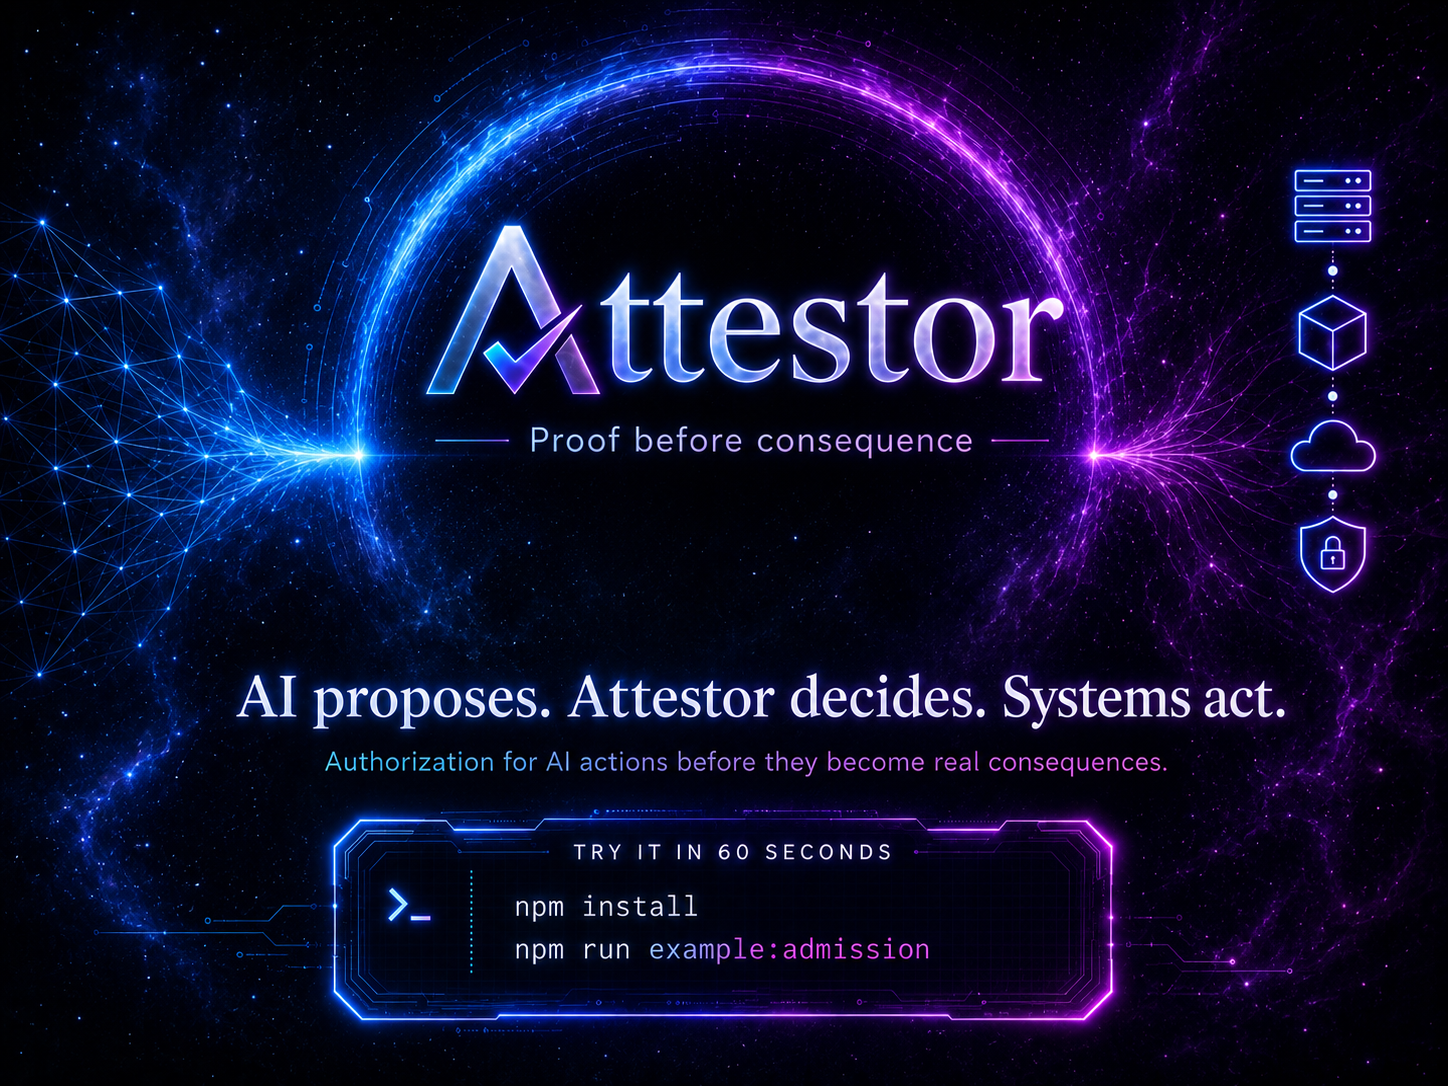
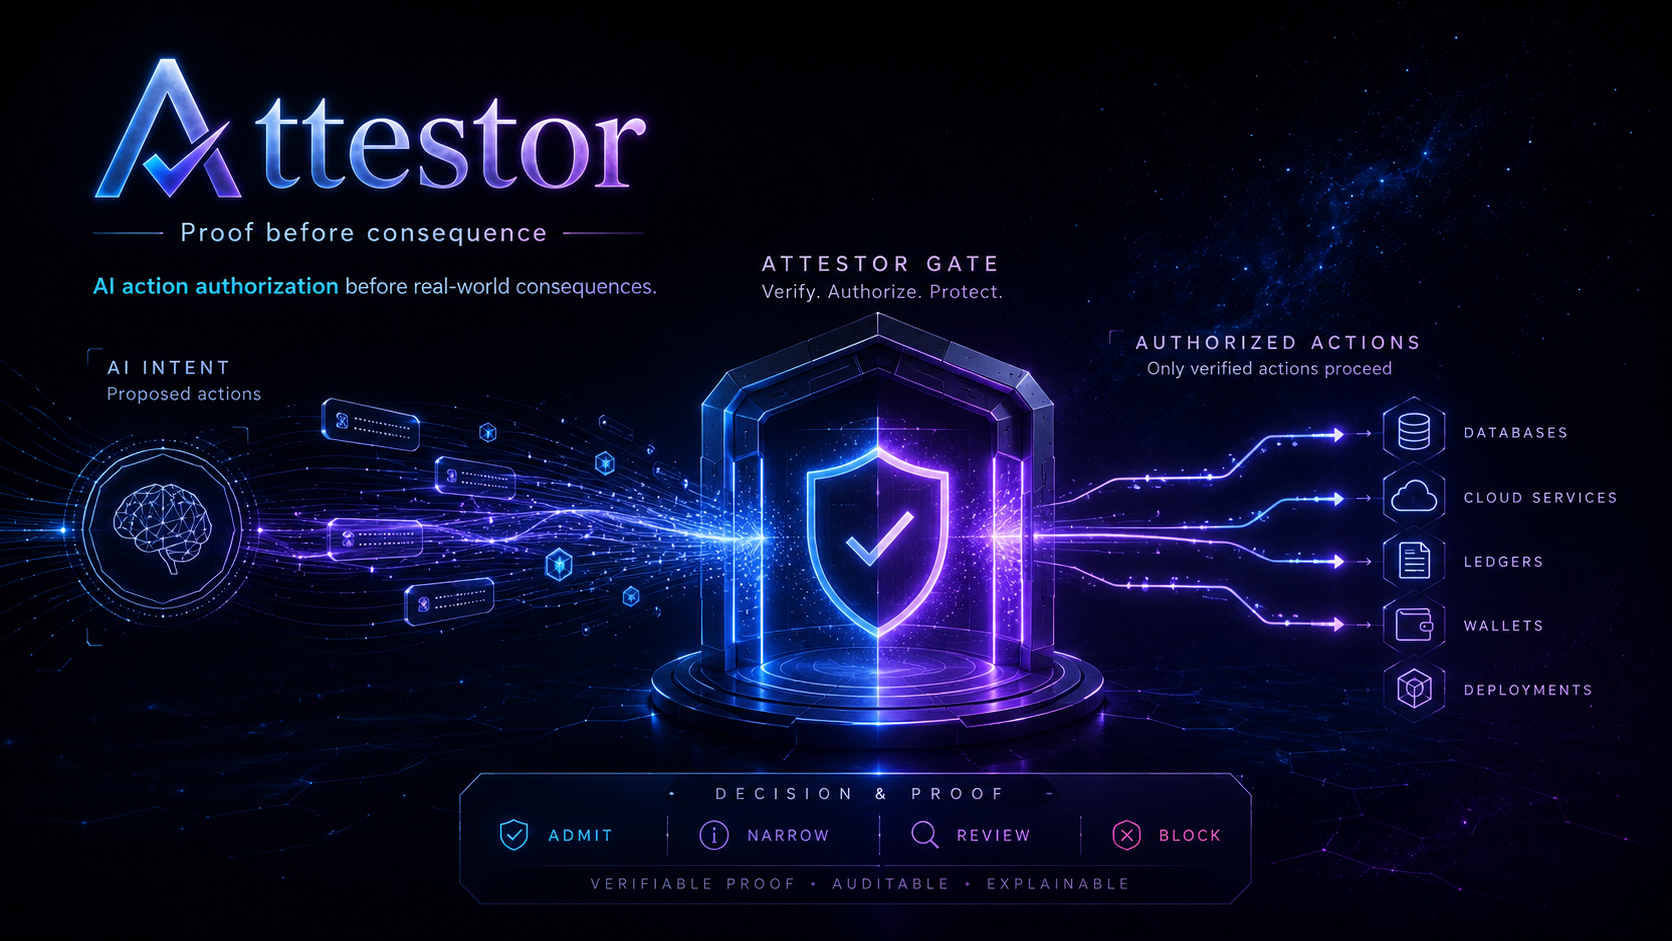
Add action surface onboarding example

diff --git a/tests/action-surface-onboarding-example.test.ts b/tests/action-surface-onboarding-example.test.ts
@@ -1,0 +1,137 @@
+import assert from 'node:assert/strict';
+import { existsSync, mkdtempSync, readFileSync, rmSync } from 'node:fs';
+import { tmpdir } from 'node:os';
+import { resolve } from 'node:path';
+import { spawnSync } from 'node:child_process';
+import { renderActionSurfaceOnboardingPacket } from '../scripts/render-action-surface-onboarding-packet.ts';
+
+let passed = 0;
+
+function ok(condition: unknown, message: string): void {
+  assert.ok(condition, message);
+  passed += 1;
+}
+
+function equal<T>(actual: T, expected: T, message: string): void {
+  assert.equal(actual, expected, message);
+  passed += 1;
+}
+
+function includes(value: string, expected: string, message: string): void {
+  assert.ok(
+    value.includes(expected),
+    `${message}\nExpected to include: ${expected}`,
+  );
+  passed += 1;
+}
+
+function excludes(value: string, unexpected: RegExp, message: string): void {
+  assert.doesNotMatch(value, unexpected, message);
+  passed += 1;
+}
+
+function readProjectFile(...segments: string[]): string {
+  return readFileSync(resolve(process.cwd(), ...segments), 'utf8');
+}
+
+function testExampleManifestRendersAReviewOnlyPacket(): void {
+  const tempDir = mkdtempSync(resolve(tmpdir(), 'attestor-action-surface-example-'));
+  const outputDir = resolve(tempDir, 'packet');
+
+  try {
+    const rendered = renderActionSurfaceOnboardingPacket({
+      generatedAt: '2026-05-12T18:00:00.000Z',
+      outputDir,
+      manifests: [{
+        path: 'examples/action-surface-onboarding/refund.openapi.json',
+        manifestKind: 'openapi',
+      }],
+      downstreamSystem: 'refund-service',
+      defaultDomain: 'money-movement',
+      credentialPosture: 'agent-held-static-secret',
+    });
+    const summary = readFileSync(rendered.artifacts.summaryPath, 'utf8');
+    const readme = readFileSync(rendered.artifacts.readmePath, 'utf8');
+
+    equal(rendered.packet.status, 'requires-review', 'Action surface example: packet requires review');
+    equal(rendered.packet.manifestCount, 1, 'Action surface example: one OpenAPI manifest is consumed');
+    equal(rendered.packet.declarationCount, 2, 'Action surface example: write operations become declarations');
+    equal(rendered.packet.surfacePlans.length, 2, 'Action surface example: two refund surfaces are planned');
+    equal(rendered.packet.approvalRequired, true, 'Action surface example: approval remains required');
+    equal(rendered.packet.autoEnforce, false, 'Action surface example: auto enforce is disabled');
+    equal(rendered.packet.rawPayloadStored, false, 'Action surface example: raw payload is not stored');
+    equal(rendered.packet.productionReady, false, 'Action surface example: production readiness is not claimed');
+    equal(rendered.packet.deploysInfrastructure, false, 'Action surface example: packet does not deploy infrastructure');
+    equal(rendered.packet.issuesCredentials, false, 'Action surface example: packet does not issue credentials');
+    equal(rendered.packet.activatesEnforcement, false, 'Action surface example: packet does not activate enforcement');
+    includes(summary, 'refund_service.issue_refund', 'Action surface example: issueRefund surface is normalized');
+    includes(summary, 'refund_service.approve_refund', 'Action surface example: approveRefund surface is normalized');
+    includes(summary, 'gateway-proxy-config', 'Action surface example: gateway draft is generated as review material');
+    includes(summary, 'policy-twin-backtest', 'Action surface example: Policy Twin draft is generated');
+    includes(readme, 'Safety boundary', 'Action surface example: README exposes safety boundary');
+    includes(readme, 'add-shadow-capture', 'Action surface example: README asks for shadow capture before enforcement');
+    excludes(summary, /sk_live|rk_live|whsec|private_key|secret=/iu, 'Action surface example: summary excludes secret-like strings');
+    excludes(readme, /production ready: true/iu, 'Action surface example: README does not overclaim production readiness');
+  } finally {
+    rmSync(tempDir, { recursive: true, force: true });
+  }
+}
+
+function testPackageScriptRunsWithOverrideOutputDir(): void {
+  const tempDir = mkdtempSync(resolve(tmpdir(), 'attestor-action-surface-example-cli-'));
+  const outputDir = resolve(tempDir, 'packet');
+
+  try {
+    const result = spawnSync(
+      'npm',
+      ['run', 'example:action-surface-onboarding', '--', `--output-dir=${outputDir}`],
+      {
+        cwd: process.cwd(),
+        encoding: 'utf8',
+        shell: process.platform === 'win32',
+      },
+    );
+    equal(result.status, 0, 'Action surface example: package script exits cleanly');
+    ok(existsSync(resolve(outputDir, 'summary.json')), 'Action surface example: package script writes summary');
+    ok(existsSync(resolve(outputDir, 'README.md')), 'Action surface example: package script writes README');
+    includes(result.stdout, 'summary.json', 'Action surface example: CLI prints rendered packet summary path');
+  } finally {
+    rmSync(tempDir, { recursive: true, force: true });
+  }
+}
+
+function testDocsExposeTheExampleWithoutOverclaiming(): void {
+  const pkg = JSON.parse(readProjectFile('package.json')) as {
+    readonly scripts: Record<string, string>;
+  };
+  const readme = readProjectFile('README.md');
+  const tryFirst = readProjectFile('docs', '01-overview', 'try-attestor-first.md');
+  const architectureDoc = readProjectFile('docs', '02-architecture', 'action-surface-onboarding-packet.md');
+  const exampleDoc = readProjectFile('examples', 'action-surface-onboarding', 'README.md');
+
+  equal(
+    pkg.scripts['example:action-surface-onboarding'],
+    'tsx scripts/render-action-surface-onboarding-packet.ts --openapi=examples/action-surface-onboarding/refund.openapi.json --default-domain=money-movement --downstream-system=refund-service --credential-posture=agent-held-static-secret',
+    'Action surface example: package script is stable',
+  );
+  equal(
+    pkg.scripts['test:action-surface-onboarding-example'],
+    'tsx tests/action-surface-onboarding-example.test.ts',
+    'Action surface example: package test is exposed',
+  );
+  includes(readme, 'npm run example:action-surface-onboarding', 'Action surface example: README includes command');
+  includes(tryFirst, 'npm run example:action-surface-onboarding', 'Action surface example: try-first doc includes command');
+  includes(architectureDoc, 'examples/action-surface-onboarding/refund.openapi.json', 'Action surface example: architecture doc names fixture');
+  includes(exampleDoc, 'review material only', 'Action surface example: example README keeps safety boundary');
+  excludes(readme, /action-surface onboarding example is production-ready/iu, 'Action surface example: README does not overclaim');
+}
+
+try {
+  testExampleManifestRendersAReviewOnlyPacket();
+  testPackageScriptRunsWithOverrideOutputDir();
+  testDocsExposeTheExampleWithoutOverclaiming();
+  console.log(`Action surface onboarding example tests: ${passed} passed, 0 failed`);
+} catch (error) {
+  console.error('Action surface onboarding example tests failed:', error);
+  process.exitCode = 1;
+}

diff --git a/tests/first-impression-path.test.ts b/tests/first-impression-path.test.ts
@@ -58,10 +58,12 @@ function testReadmeHasAFirstImpressionPath(): void {
   includes(readme, 'AI action authorization infrastructure', 'README: positions Attestor as infrastructure, not a generic tool');
   includes(readme, '## Try It In 60 Seconds', 'README: exposes a fast first run near the top');
   includes(readme, 'npm run example:admission', 'README: shows the first runnable command');
+  includes(readme, 'npm run example:action-surface-onboarding', 'README: shows the first onboarding packet command');
   includes(readme, 'one proposed consequence admitted with proof references', 'README: explains admitted proof refs');
   includes(readme, 'one proposed consequence blocked fail-closed', 'README: explains blocked fail-closed path');
   includes(readme, 'a customer-side gate that only proceeds when Attestor allows it', 'README: explains downstream gate behavior');
   includes(readme, 'a non-bypassable gateway demo where a payment adapter cannot dispatch without verifier allow', 'README: explains non-bypassable adapter behavior');
+  includes(readme, 'an action-surface onboarding packet rendered from a safe OpenAPI example without deploying anything', 'README: explains safe onboarding packet example');
   includes(readme, '## Decision Model', 'README: makes the decision vocabulary prominent');
   includes(readme, 'Admission responses also carry model-safe feedback.', 'README: exposes safe retry feedback near the decision model');
   includes(readme, 'sameRequestReplayAllowed', 'README: makes replay unsafe for model repair');
@@ -88,10 +90,12 @@ function testTryFirstDocKeepsTheBoundaryHonest(): void {
 
   includes(doc, 'npm run example:admission', 'Try-first doc: includes the runnable command');
   includes(doc, 'npm run example:non-bypassable-gateway', 'Try-first doc: includes the non-bypassable gateway command');
+  includes(doc, 'npm run example:action-surface-onboarding', 'Try-first doc: includes the action-surface onboarding example command');
   includes(doc, 'one is admitted', 'Try-first doc: explains admitted path');
   includes(doc, 'one is blocked fail-closed', 'Try-first doc: explains blocked path');
   includes(doc, 'proposed consequence -> Attestor admission decision -> proof refs -> downstream gate', 'Try-first doc: explains the operating shape');
   includes(doc, 'not the generic hosted `POST /api/v1/admissions` route', 'Try-first doc: separates local demo from generic hosted route');
+  includes(doc, 'not an apply step for the generated action-surface onboarding packet', 'Try-first doc: separates onboarding packet from apply');
   includes(doc, 'not a public hosted crypto route', 'Try-first doc: does not invent a hosted crypto route');
   includes(doc, 'not a wallet, custody platform, agent runtime, or orchestration layer', 'Try-first doc: keeps Attestor role narrow');
   includes(doc, 'does not auto-detect packs from payload shape', 'Try-first doc: rejects automatic pack detection');
@@ -125,6 +129,7 @@ function testPackageScriptsProtectThePath(): void {
 
   includes(packageJson.scripts['example:admission'], 'examples/first-useful-admission-demo.ts', 'Package: exposes the admission example');
   includes(packageJson.scripts['example:non-bypassable-gateway'], 'examples/non-bypassable-gateway-demo.ts', 'Package: exposes the non-bypassable gateway example');
+  includes(packageJson.scripts['example:action-surface-onboarding'], 'examples/action-surface-onboarding/refund.openapi.json', 'Package: exposes the action-surface onboarding example');
   includes(packageJson.scripts['test:first-impression-path'], 'tests/first-impression-path.test.ts', 'Package: exposes the first impression guard');
   includes(packageJson.scripts.test, 'scripts/run-suite.mjs test', 'Package: npm test delegates to the suite runner');
   includes(packageJson.scripts.verify, 'scripts/run-suite.mjs verify', 'Package: verify delegates to the suite runner');

diff --git a/examples/action-surface-onboarding/README.md b/examples/action-surface-onboarding/README.md
@@ -1,0 +1,18 @@
+# Action Surface Onboarding Example
+
+This example gives the local onboarding renderer a safe OpenAPI input without
+requiring a customer file.
+
+Run:
+
+```bash
+npm run example:action-surface-onboarding
+```
+
+The renderer writes:
+
+- `.attestor/action-surface-onboarding/latest/summary.json`
+- `.attestor/action-surface-onboarding/latest/README.md`
+
+The output is review material only. It does not deploy a gateway, issue
+credentials, activate enforcement, or claim production readiness.

diff --git a/docs/02-architecture/action-surface-onboarding-packet.md b/docs/02-architecture/action-surface-onboarding-packet.md
@@ -66,7 +66,17 @@ manifest text
 
 ## Local Renderer
 
-The fastest local entry point is:
+The fastest local entry point uses the bundled refund OpenAPI example:
+
+```bash
+npm run example:action-surface-onboarding
+```
+
+That command renders from
+`examples/action-surface-onboarding/refund.openapi.json` and writes the same
+review-required packet as the generic renderer.
+
+For customer-owned metadata, pass a manifest directly:
 
 ```bash
 npm run render:action-surface-onboarding-packet -- --openapi=path/to/openapi.yaml

diff --git a/docs/01-overview/try-attestor-first.md b/docs/01-overview/try-attestor-first.md
@@ -45,9 +45,18 @@ npm run example:agent-retry-wrapper
 
 That demo shows model-safe feedback, retry attempt binding, retry budget evaluation, and attempt-ledger duplicate handling.
 
+To render a first action-surface onboarding packet from a safe OpenAPI example, run:
+
+```bash
+npm run example:action-surface-onboarding
+```
+
+That example shows how Attestor can turn existing API metadata into review material: discovered action surfaces, generated integration drafts, readiness blockers, and next onboarding steps. It is still only a packet. It does not deploy a gateway, issue credentials, activate enforcement, or claim production readiness.
+
 ## What This Does Not Claim
 
 - It is not the generic hosted `POST /api/v1/admissions` route.
+- It is not an apply step for the generated action-surface onboarding packet.
 - It is not a public hosted crypto route.
 - It is not a wallet, custody platform, agent runtime, or orchestration layer.
 - It does not auto-detect packs from payload shape.
@@ -60,6 +69,7 @@ Customer systems still choose the relevant Attestor surface explicitly.
 - Need to wire the decision into your own app? Read [Customer admission gate](customer-admission-gate.md).
 - Need to see the no-bypass adapter shape? Read [Non-bypassable gateway demo](non-bypassable-gateway-demo.md).
 - Need bounded agent retries? Read [Agent retry wrapper demo](agent-retry-wrapper-demo.md).
+- Need to start from existing API metadata? Run `npm run example:action-surface-onboarding` and read [Action surface onboarding packet](../02-architecture/action-surface-onboarding-packet.md).
 - Need the first hosted call after signup? Read [First hosted API call](hosted-first-api-call.md).
 - Need the finance and crypto entry paths? Read [Finance and crypto first integrations](finance-and-crypto-first-integrations.md).
 - Need pricing, evaluation, or hosted trial details? Read [Commercial packaging, pricing, and evaluation](product-packaging.md).

diff --git a/README.md b/README.md
@@ -97,6 +97,7 @@ This is AI action authorization infrastructure: not a chatbot feature, not a pro
 ```bash
 npm install
 npm run example:admission
+npm run example:action-surface-onboarding
 ```
 
 You will see:
@@ -106,6 +107,7 @@ You will see:
 - a customer-side gate that only proceeds when Attestor allows it
 - a non-bypassable gateway demo where a payment adapter cannot dispatch without verifier allow
 - an agent retry wrapper demo where model-safe feedback becomes one bounded correction attempt
+- an action-surface onboarding packet rendered from a safe OpenAPI example without deploying anything
 
 For a guided first run, see [Try Attestor first](docs/01-overview/try-attestor-first.md).
 
@@ -123,6 +125,9 @@ npm run example:non-bypassable-gateway
 
 # Agent retry wrapper demo
 npm run example:agent-retry-wrapper
+
+# 60-second action-surface onboarding packet from a safe OpenAPI example
+npm run example:action-surface-onboarding
 
 # Render a review-required action-surface onboarding packet
 npm run render:action-surface-onboarding-packet -- --openapi=path/to/openapi.yaml